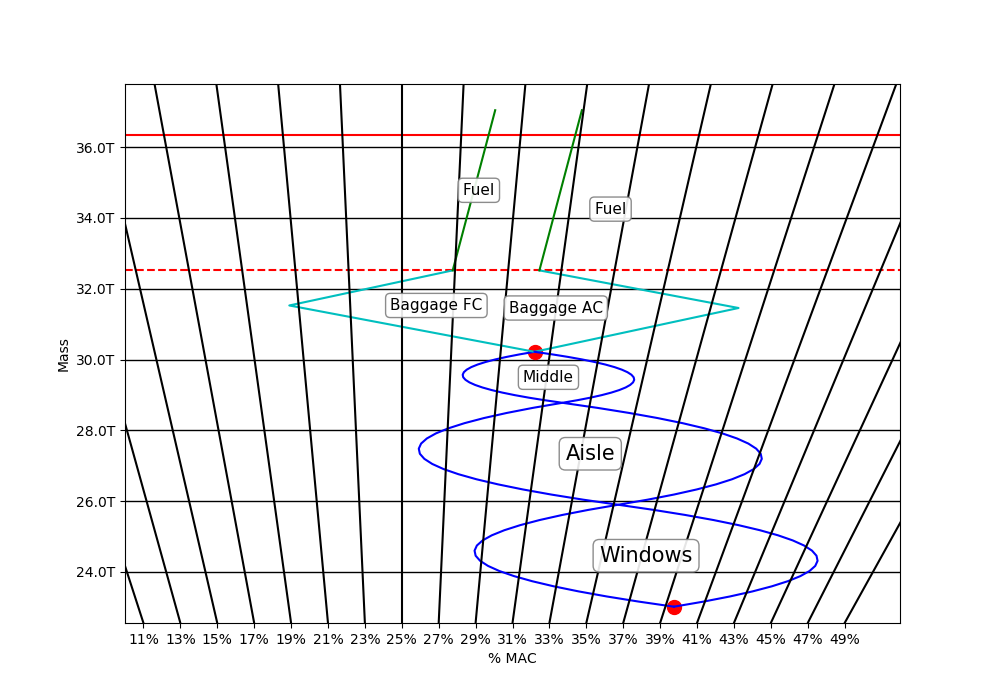
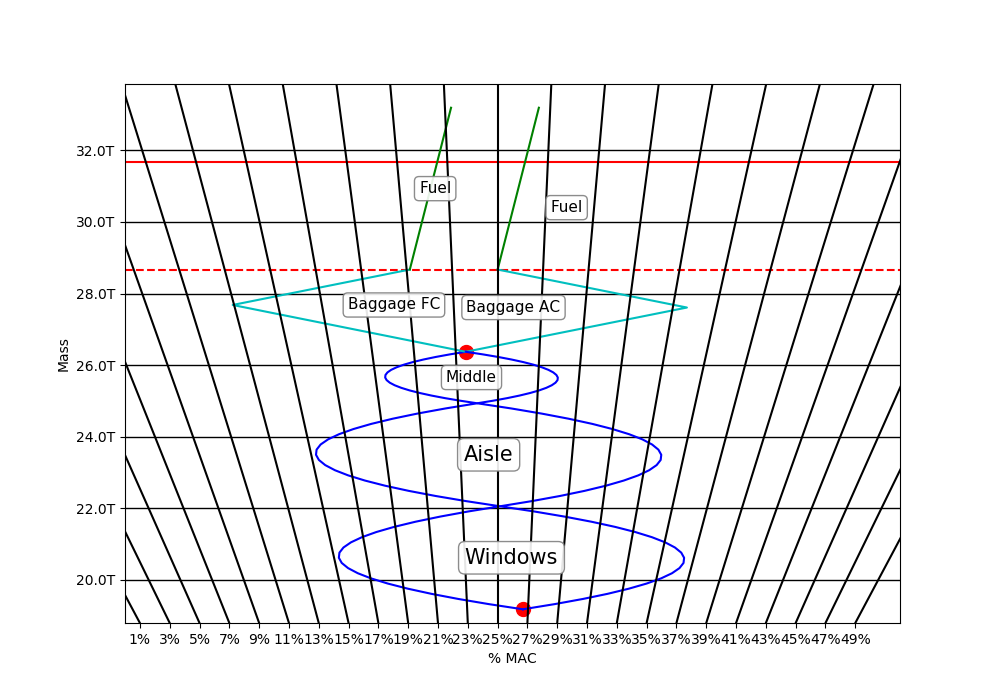
Update with new values and axis ranges

Changed region(s): [[0.062, 0.12, 0.899, 0.93], [0.868, 0.12, 0.899, 0.15]]

diff --git a/weights_and_balance.py b/weights_and_balance.py
@@ -416,4 +416,4 @@ def plotit(mac_range=[0.11, 0.51]):
     plt.show()
 
 
-plotit(mac_range=[0.01, 0.43])
+plotit(mac_range=[0.01, 0.51])
